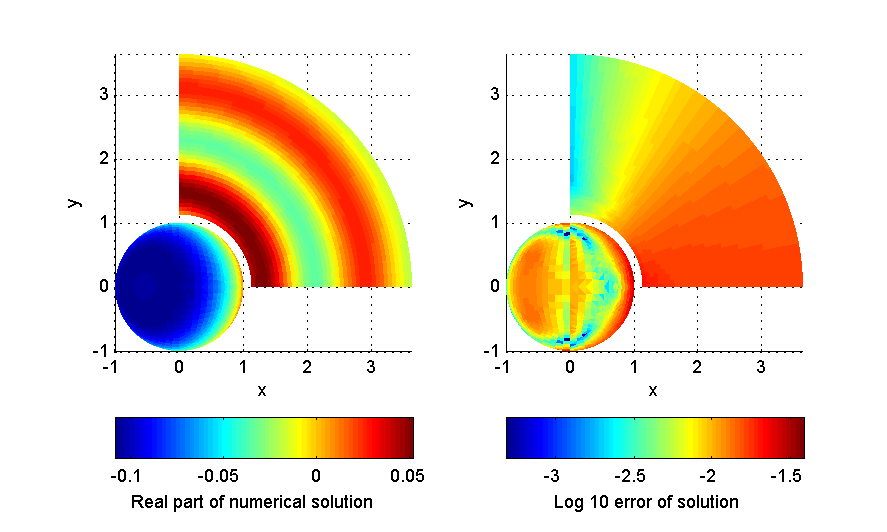
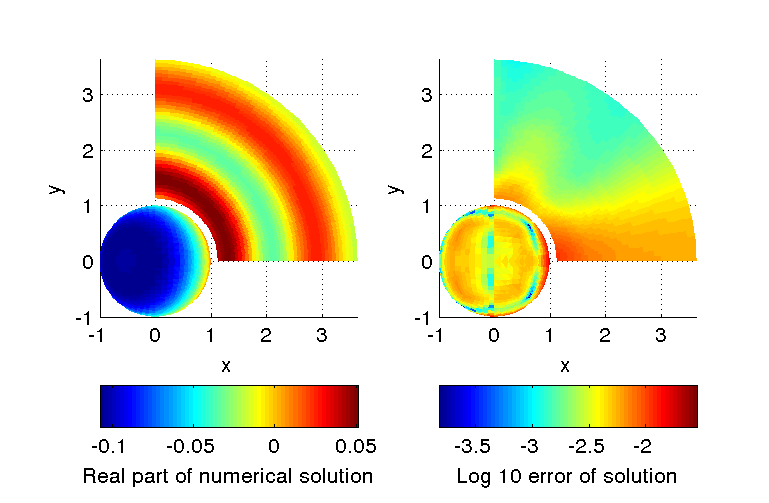
galerkin bem tutorial rerun

diff --git a/dox/tut_helmholtz_galerkin_bem.md b/dox/tut_helmholtz_galerkin_bem.md
@@ -172,8 +172,8 @@ The generated plot looks like
 
 And the resulting errors read as
 
-	Surface log10 error: -1.780843 
-	Field   log10 error: -1.964462 
+	Surface log10 error: -2.079379 
+	Field   log10 error: -2.448697 
 
 The full codes of this tutorial are available here:
 - C++ code: tutorial/helmholtz_bem_3d.mex.cpp
